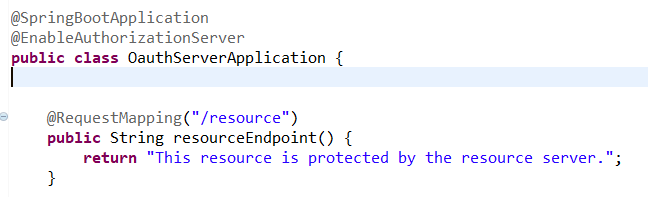
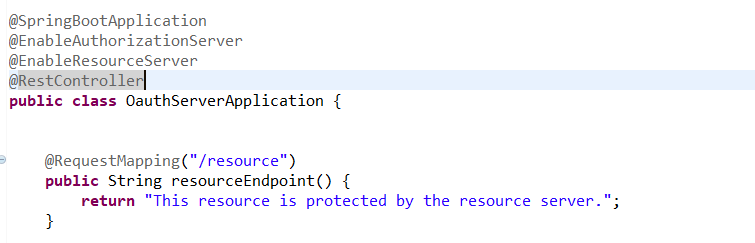
oauth

diff --git a/token-based-security-with-oauth/oauth-server/src/main/java/com/excelsiorsoft/spring/cloud/OauthServerApplication.java b/token-based-security-with-oauth/oauth-server/src/main/java/com/excelsiorsoft/spring/cloud/OauthServerApplication.java
@@ -3,10 +3,14 @@ package com.excelsiorsoft.spring.cloud;
 import org.springframework.boot.SpringApplication;
 import org.springframework.boot.autoconfigure.SpringBootApplication;
 import org.springframework.security.oauth2.config.annotation.web.configuration.EnableAuthorizationServer;
+import org.springframework.security.oauth2.config.annotation.web.configuration.EnableResourceServer;
 import org.springframework.web.bind.annotation.RequestMapping;
+import org.springframework.web.bind.annotation.RestController;
 
 @SpringBootApplication
 @EnableAuthorizationServer
+@EnableResourceServer
+@RestController
 public class OauthServerApplication {
 
 	
